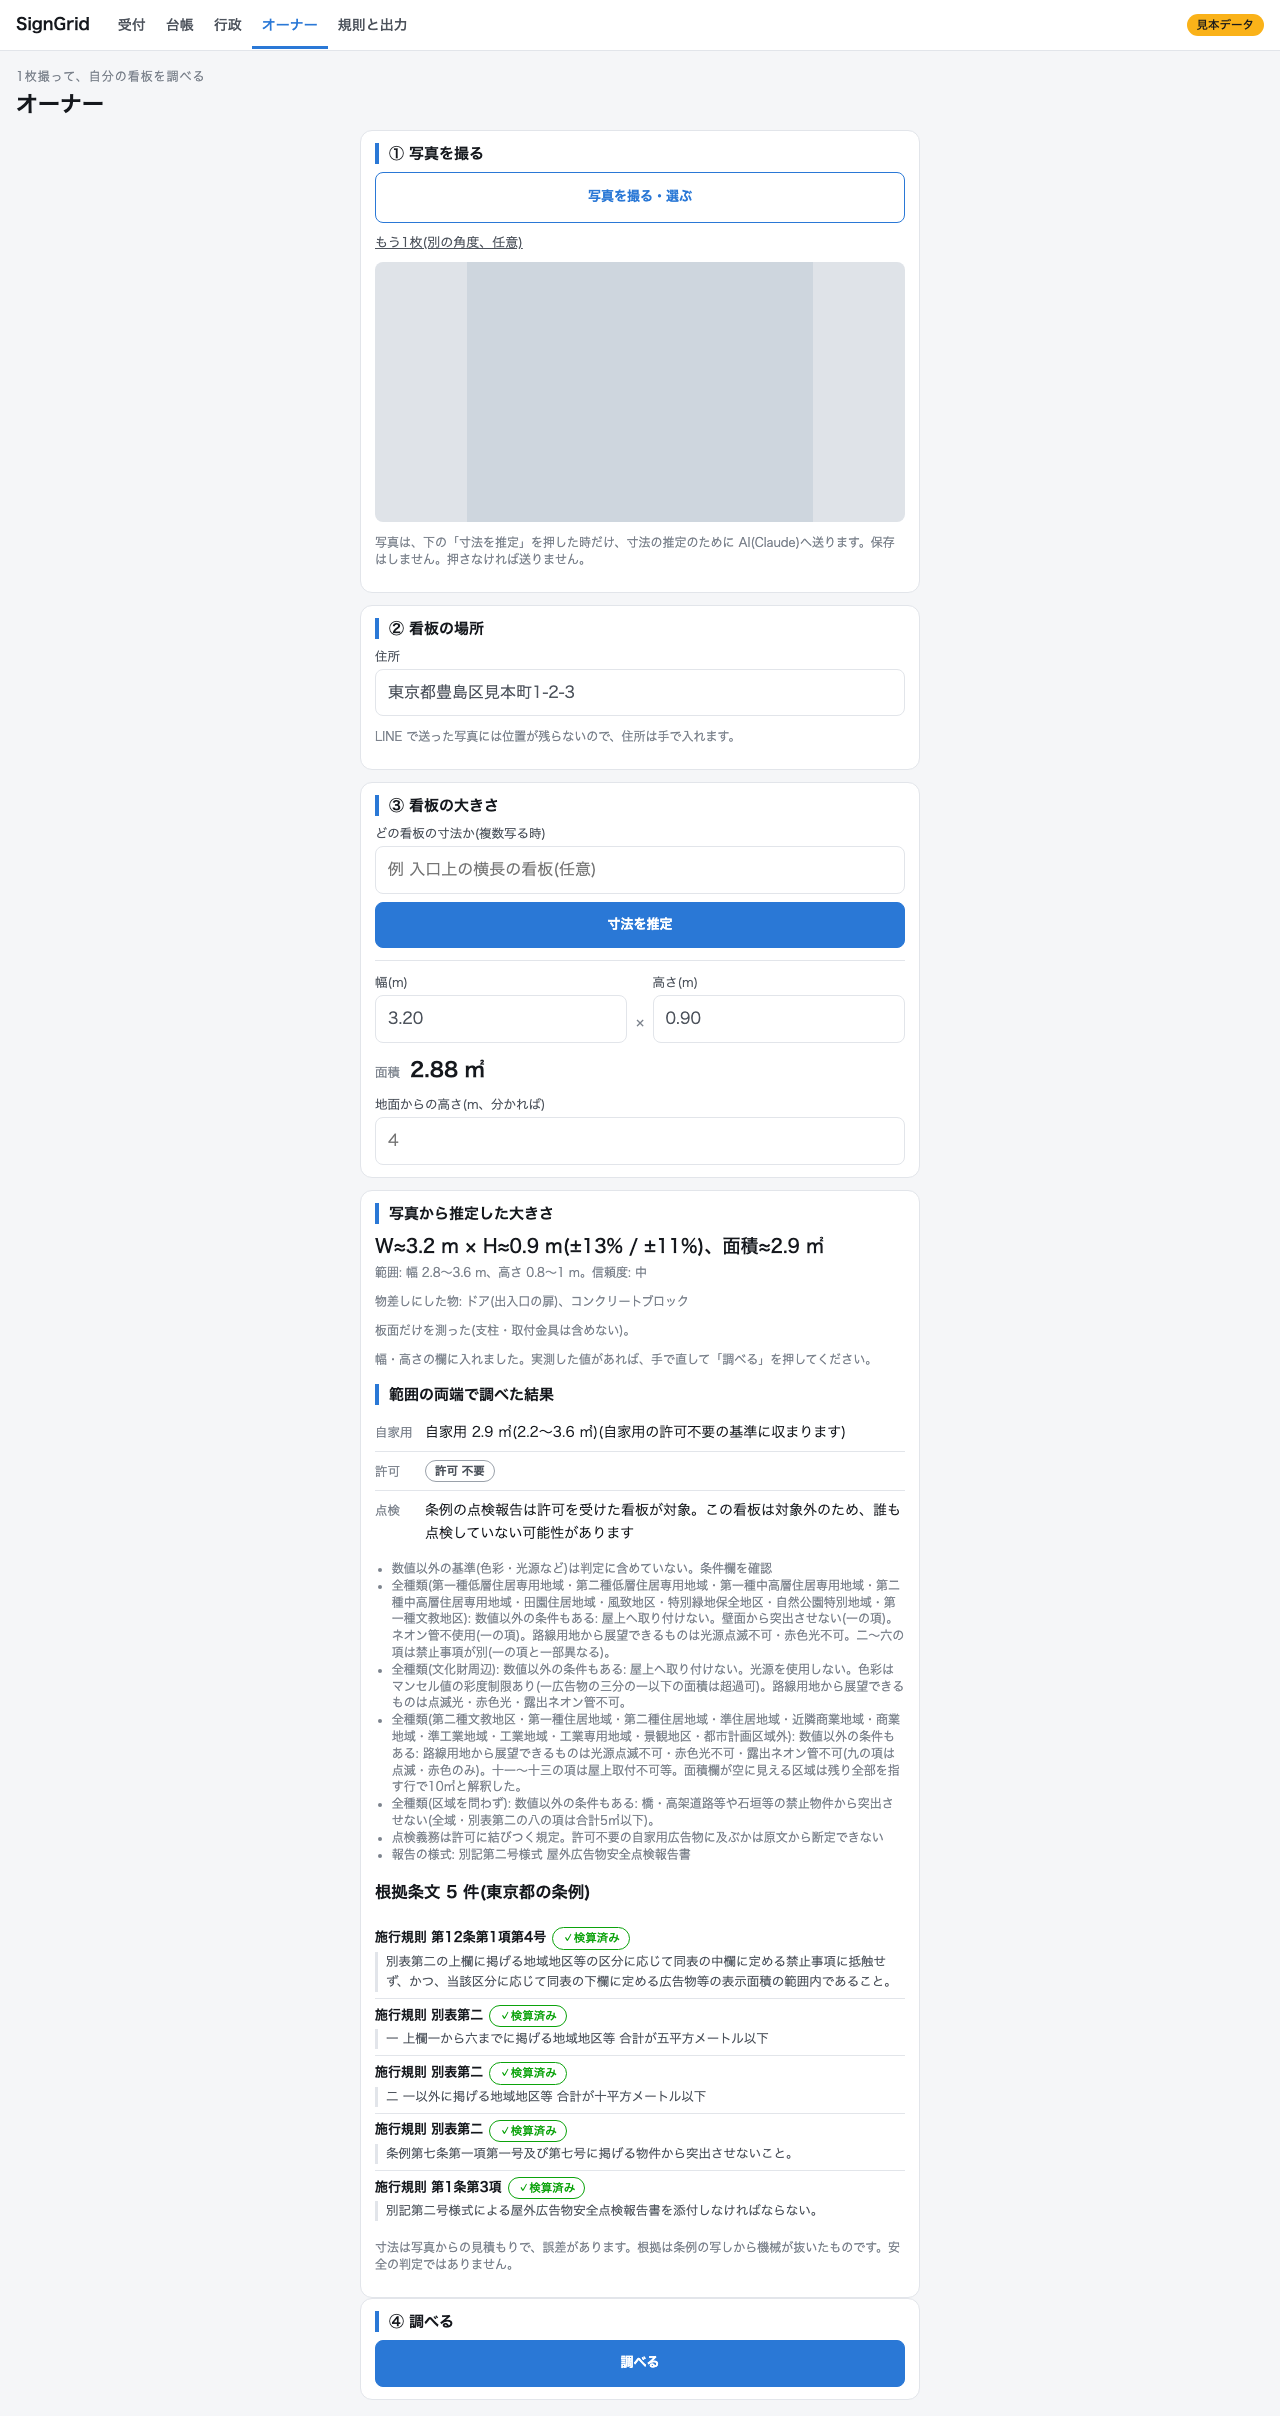
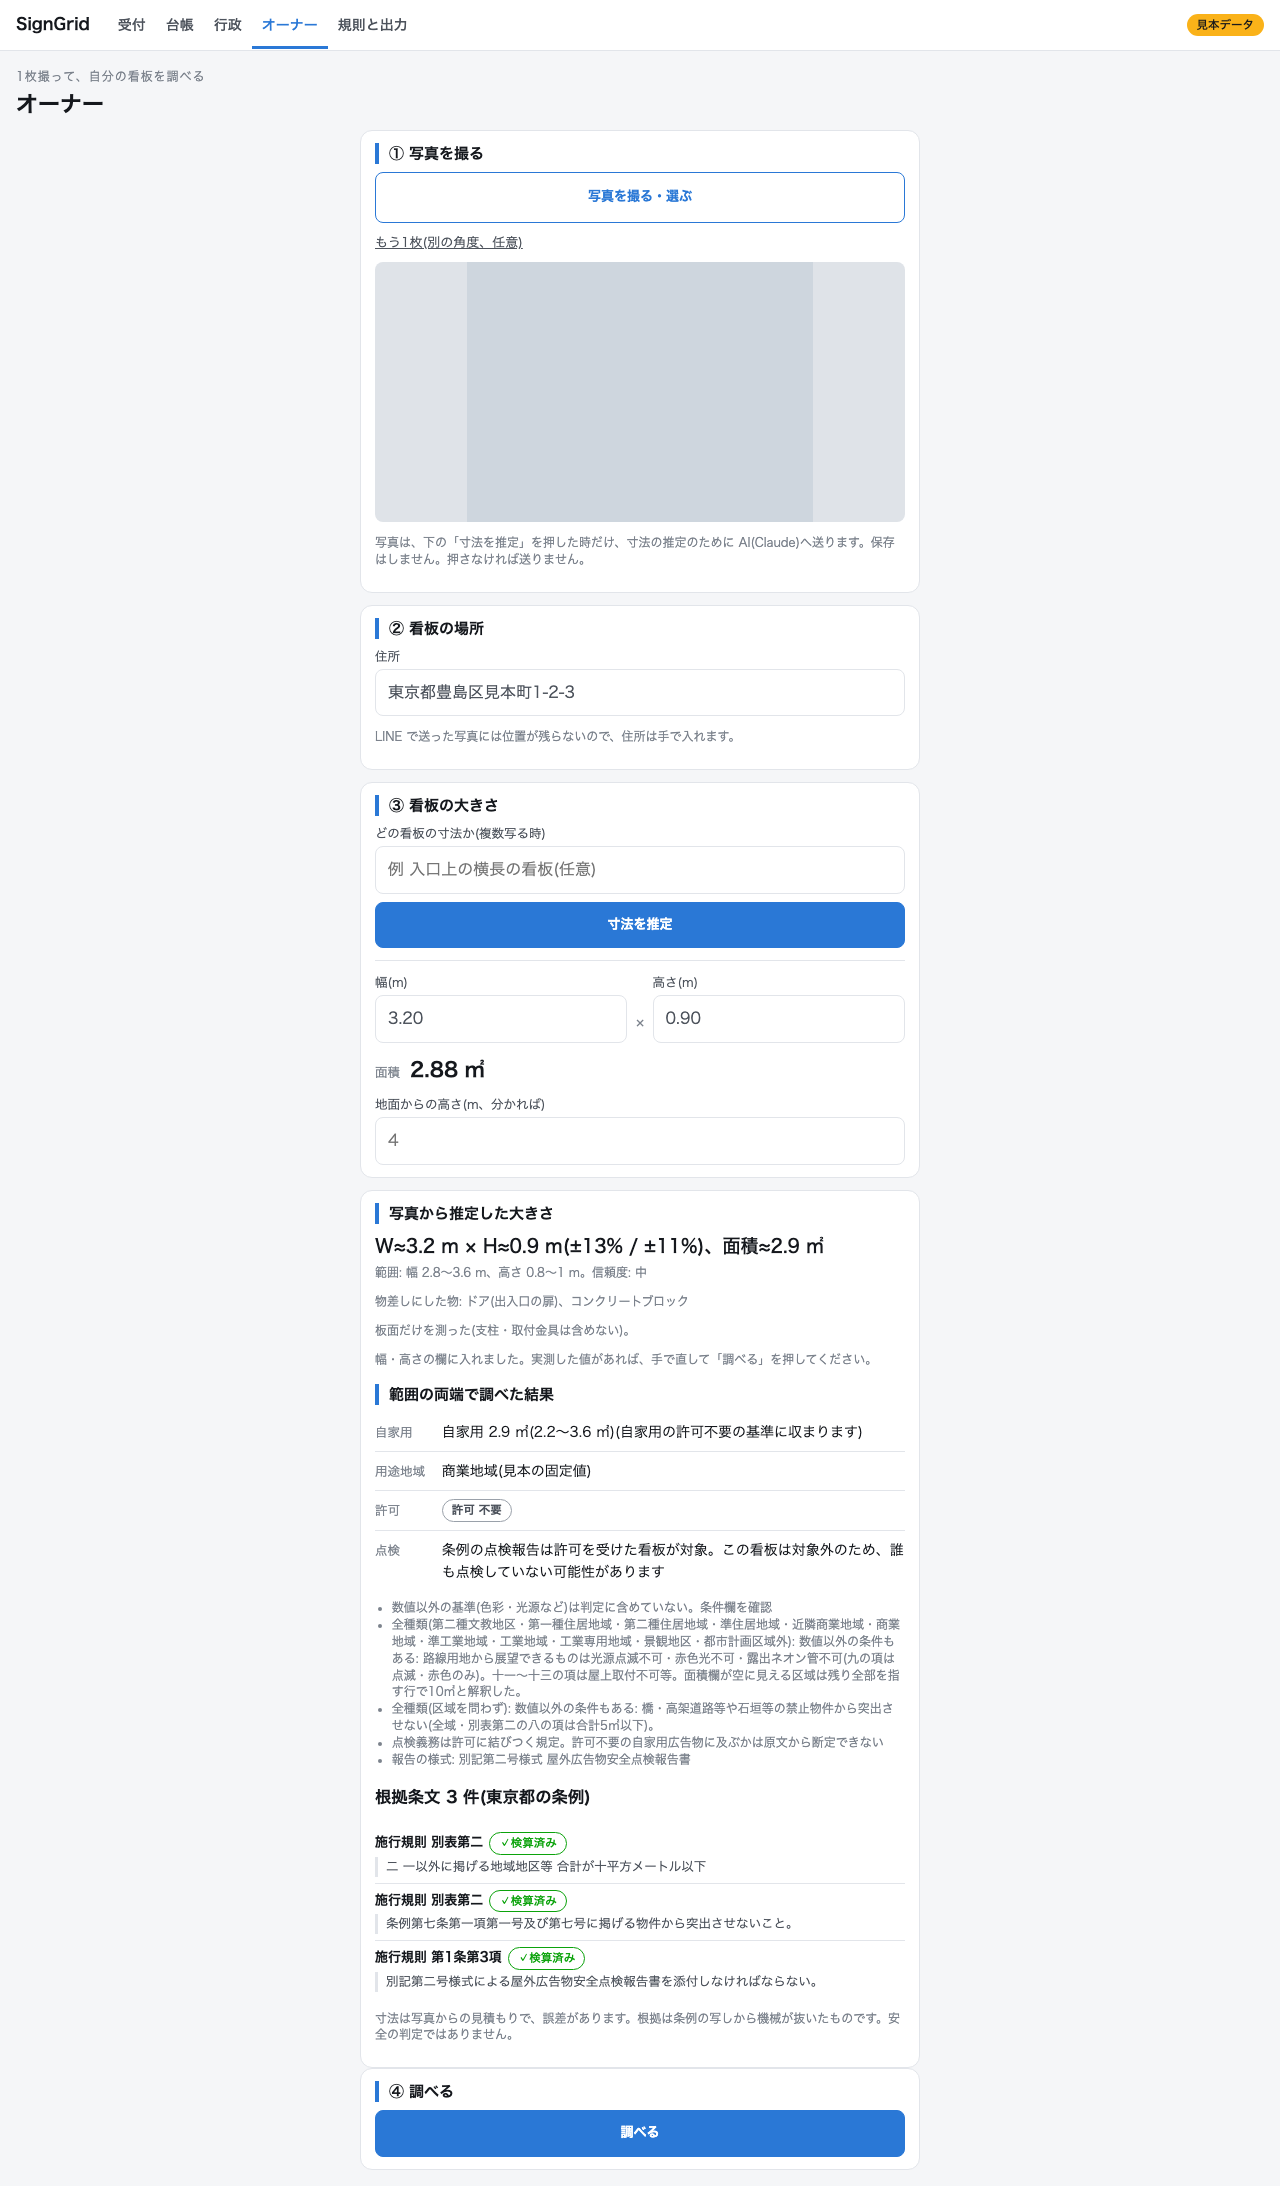
Owner: widen result label column so 用途地域 fits on one line; retake owner screenshots

diff --git a/kanban_karte/web/static/app.css b/kanban_karte/web/static/app.css
@@ -240,7 +240,7 @@ dialog#lightbox::backdrop{background:rgba(0,0,0,.7)}
 .area{font-size:20px;font-weight:700}
 .owner label.num.wide{margin-top:4px}
 .three{list-style:none;margin:0;padding:0}
-.three li{display:grid;grid-template-columns:3em minmax(0,1fr);gap:8px;align-items:start;padding:8px 0;border-bottom:1px solid var(--line);font-size:14px}
+.three li{display:grid;grid-template-columns:4.2em minmax(0,1fr);gap:8px;align-items:start;padding:8px 0;border-bottom:1px solid var(--line);font-size:14px}
 .three li:last-child{border-bottom:0}
 .three .chip{justify-self:start}
 .three .k{color:var(--muted);font-size:12.5px;padding-top:2px}
